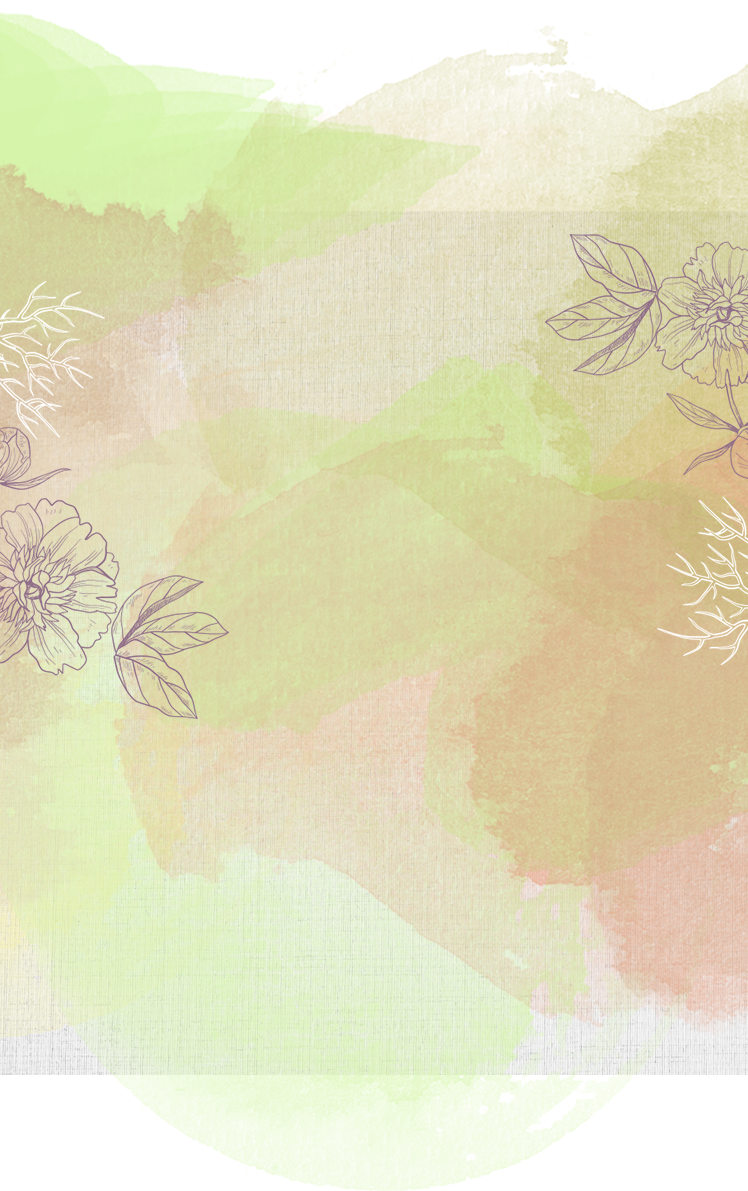
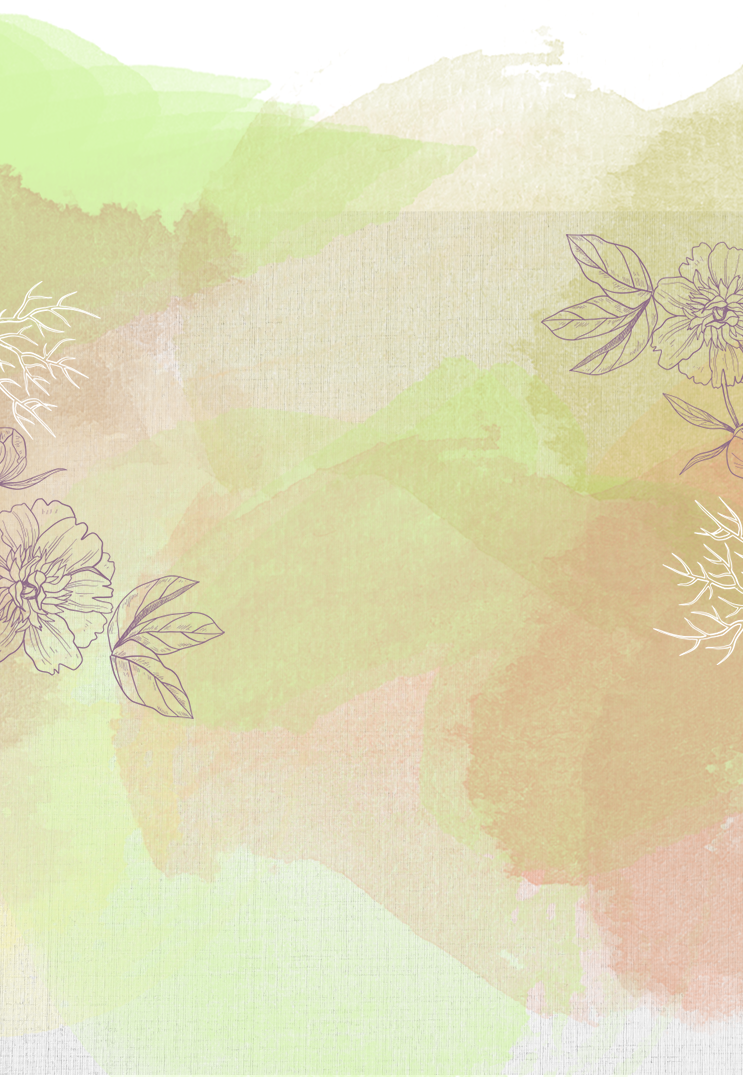
html,cssの修正

diff --git a/index.html b/index.html
@@ -116,28 +116,30 @@
       </div>
     </section>
     <section class="g-join">
-      <h2 class="join-h2">どうやって入るの？</h2>
-      <p>
-        <span>月額390円を支払って頂くだけ</span>で参加できます。
-      </p>
-      <!-- <p>
-        <span>以下「詳細ページへ」から参加できます</span>
-      </p> -->
-      <p data-aos="zoom-in" data-aos-duration="1000">
-        少しでも「面白そうかも」と<br>
-        思って頂けた方は一度詳細チェックしてみることをオススメします。<br>
-        <br>
-        390円/月(13円/日)で入会して<span>「合わなければ即やめる」</span>でOKです。
-      </p>
-      <!-- <p>
-        少しでも「面白そうかも」と<br>
-        思って頂けた方は一度加入してみては？<br>
-        たった390円/月(13円/日)で入会して<br>
-        合わなければ即やめればいいのです。
-      </p> -->
-      <button type="button" onclick="location.href='https://gift.place/'" class="join-button">
-        詳細ページへ
-      </button>
+      <div class="g-join-content">
+        <h2 class="join-h2">どうやって入るの？</h2>
+        <p>
+          <span class="g-join-cost">月額390円を支払って頂くだけで参加できます。</span>
+        </p>
+        <!-- <p>
+          <span>以下「詳細ページへ」から参加できます</span>
+        </p> -->
+        <p data-aos="zoom-in" data-aos-duration="1000">
+          少しでも「面白そうかも」と<br>
+          思って頂けた方は一度詳細チェックしてみることをオススメします。<br>
+          <br>
+          390円/月(13円/日)で入会して<span class="unmatch">「合わなければ即やめる」</span>でOKです。
+        </p>
+        <!-- <p>
+          少しでも「面白そうかも」と<br>
+          思って頂けた方は一度加入してみては？<br>
+          たった390円/月(13円/日)で入会して<br>
+          合わなければ即やめればいいのです。
+        </p> -->
+        <button type="button" onclick="location.href='https://gift.place/'" class="join-button">
+          詳細ページへ
+        </button>
+      </div>
     </section>
     <section class="g-target">
       <h2>こんな悩みを抱えていませんか？</h2>

diff --git a/style.css b/style.css
@@ -108,7 +108,10 @@ h2{
   height: 500px;
   color: #805C5C;
 }
-.g-join span{
+.g-join .g-join-cost{
+  font-size: 25px;
+}
+.g-join .unmatch{
   text-decoration: underline;
 }
 .join-button{
@@ -205,7 +208,8 @@ h2{
 @media screen and (max-width: 1024px) {
   .g-header{
     background-image: url(./image/giftsp1.png);
-    /* height: 75 0px; */
+    height: 550px;
+    padding-top: 100px;
   }
   .g-header-title{
     position: absolute;
@@ -226,33 +230,20 @@ h2{
     background-position: center center;
     background-repeat: no-repeat;
     background-size: cover;
-  }  
+  }
   .g-join{
-    background-image: url(./image/giftsp2.png);
+    background-image: url(./image/gift-join.png);
     background-position: center center;
     background-repeat: no-repeat;
     background-size: cover;
-    padding: 200px 0;
-  }
-  .join-h2{
-    margin-top: 100px;
-  }
-  .join-button{
-    width: 300px;
-    height: 50px;
-    background:#E79D7A ;
-    color: white;
-    border: none;
-    border-radius: 5px;
-    font-size: 20px;
-    margin-top: 80px;
+    height: 500px;
   }
   .g-last{
     background-image: url(./image/giftsp3.png);
   }
 }
 /* 【スマートフォン以下】 */
-@media screen and (max-width: 896px) { 
+@media screen and (max-width: 768px) { 
   
   .g-header-title p{
     font-size: 3.5vw;
@@ -263,6 +254,9 @@ h2{
   .g-home .h-sns a img{
     max-width: 100px;
   }
+  .g-join .g-join-cost{
+    font-size: 3.5vw;
+  }  
   .g-join p{
     font-size: 2.5vw;
   }
